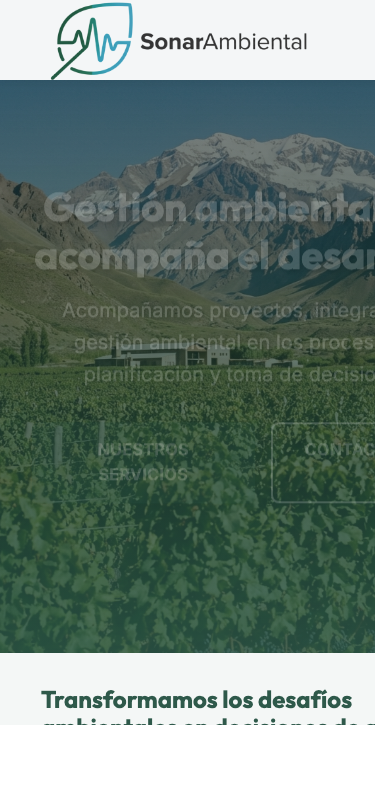
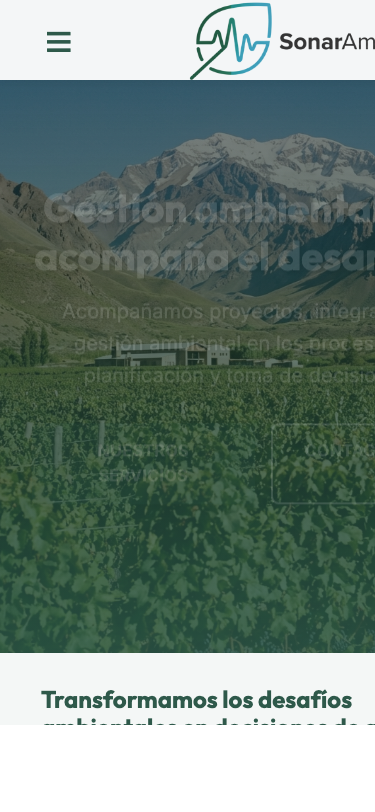
modificacion en la visualizacion movil

Changed region(s): [[0.1173, 0.0, 1.0, 0.0924]]

diff --git a/css/style.css b/css/style.css
@@ -568,7 +568,17 @@ img {
 
     .mobile-menu-btn {
         display: block;
+        font-size: 2.5rem;
+        /* Increased size */
+        order: -1;
+        /* Move to the left */
+        margin-right: auto;
+        /* Push everything else to the right if needed, though space-between handles it */
+        padding-left: 0;
+        /* Align closely to the edge */
     }
+
+
 
     .hero-title {
         font-size: 2.5rem;
